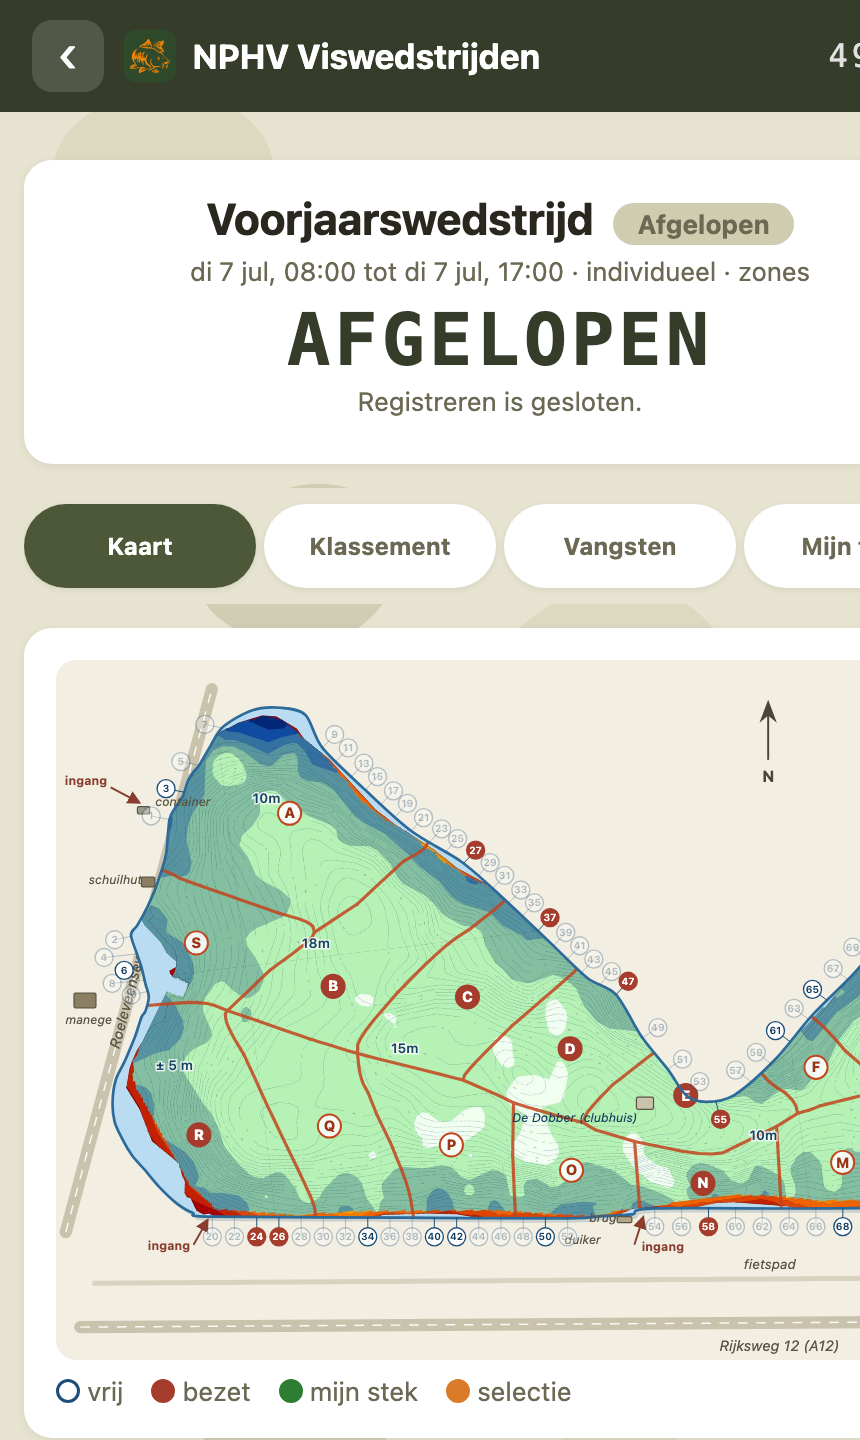
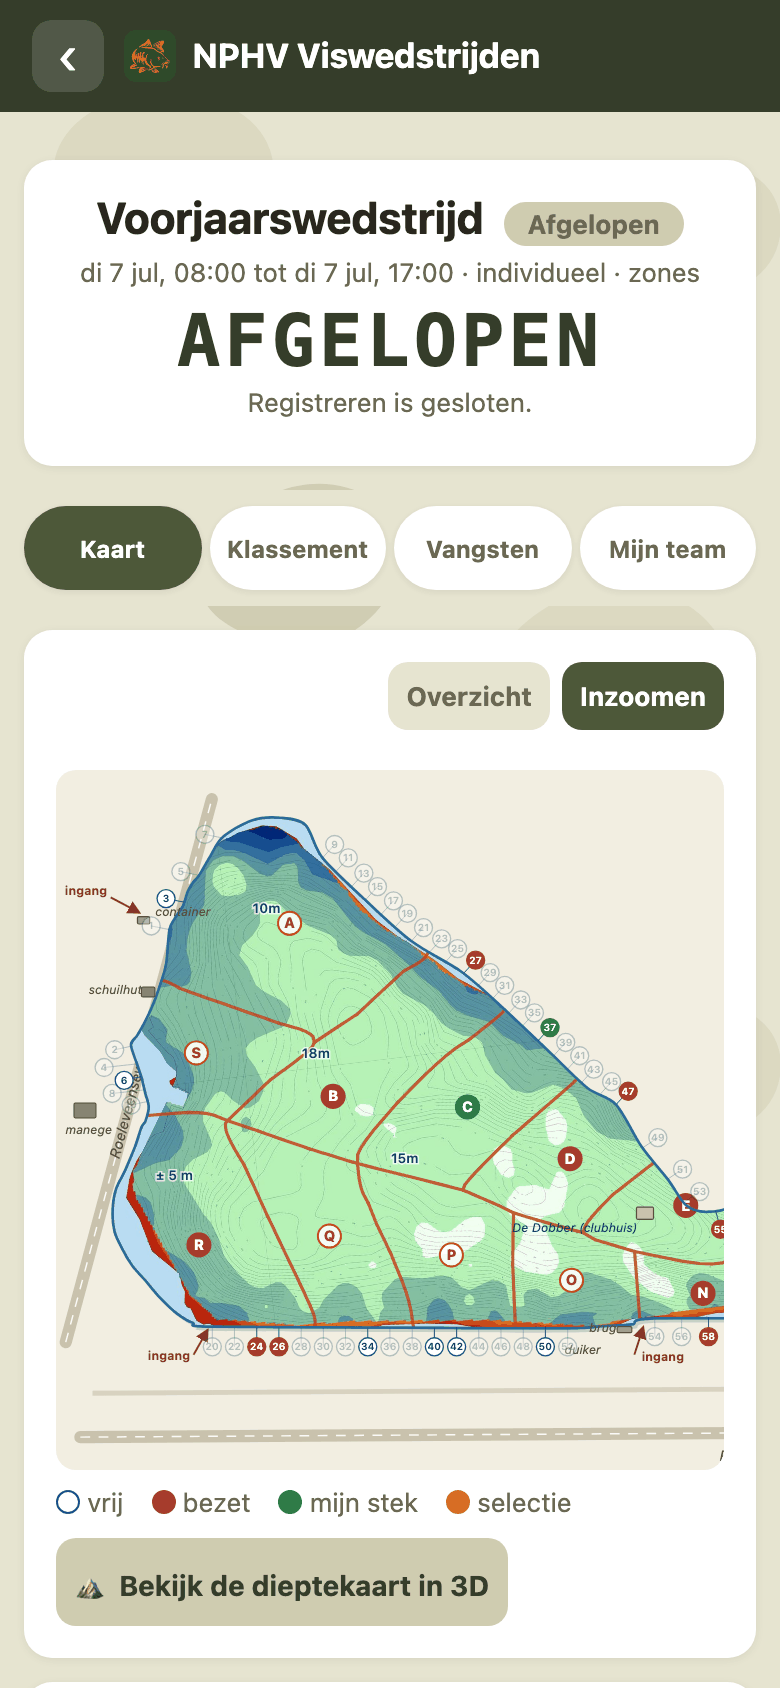
landing: telefoon-mockups in echte telefoonverhouding + fotobucket dicht
De mockups op de landingspagina leken tablets. Twee oorzaken, allebei weg:

- De opnames waren gemaakt met headless Chrome zonder mobiele emulatie.
  Chrome past dan de viewport-meta niet toe en rendert op schermbreedte, dus
  de beelden hadden te grote tekst, een halve tabbalk en afgekapte kolommen,
  in een verhouding van 1:1,67 tot 1:2,00. Nieuwe opnames via CDP met
  mobile:true, 390x844 punten @2x = 780x1688 (1:2,16, iPhone-verhouding);
  het gereedschap staat nu in tools/mobiel_screenshot.mjs.
- Het frame was breed en vlak: nu smaller (232px), grotere hoekstraal en
  zijknoppen links en rechts, zodat het silhouet een telefoon is.

De kaartopname toont voortaan de ingezoomde dieptekaart zonder de
wedstrijdcode in de topbar en zonder de deelnemerslijst; die code geeft
namelijk toegang tot de namen.

Daarnaast is de anon-INSERT-policy op de bucket wedstrijd-fotos ingetrokken
(migratie wedstrijd_fotos_anon_insert_intrekken), ruim drie weken na v64.
Schrijven kan nu alleen nog de edge function upload-vangstfoto na controle
van teamtoken of admin-pin; daarmee is Codex v10 hoog-2 helemaal dicht.
Geverifieerd: directe upload met de publieke sleutel geeft 403 RLS, upload
via de edge function met een geldig teamtoken geeft 200, publiek lezen 200.

diff --git a/docs/index.html b/docs/index.html
@@ -52,18 +52,27 @@
   .duo { display: flex; gap: clamp(20px, 4vw, 44px); align-items: center; flex-wrap: wrap; }
   .duo > .tekstkolom { flex: 1 1 320px; min-width: 0; }
   .duo > .telefoon { margin: 0 auto; }
+  /* Telefoonlijst: de opnames zijn 390x844 punten (1:2,16), dus de verhouding
+     van een echte telefoon. Rand, hoekstraal en zijknoppen zijn op die maat
+     geschaald; met een bredere doos of een vlakkere verhouding leest het
+     silhouet als een tablet. */
   .telefoon {
-    flex: 0 0 auto; width: min(250px, 68vw);
-    border: 9px solid #23281a; border-radius: 34px; background: #23281a;
-    box-shadow: 0 16px 38px rgba(35, 40, 26, .3); overflow: hidden;
+    position: relative; flex: 0 0 auto; width: min(232px, 62vw);
+    border: 8px solid #23281a; border-radius: 38px; background: #23281a;
+    box-shadow: 0 16px 38px rgba(35, 40, 26, .3);
   }
-  .telefoon img { display: block; width: 100%; height: auto; }
+  .telefoon img { display: block; width: 100%; height: auto; border-radius: 30px; }
+  .telefoon::before, .telefoon::after {
+    content: ''; position: absolute; width: 3px; background: #1a1e12;
+  }
+  .telefoon::before { left: -11px; top: 24%; height: 9%; border-radius: 3px 0 0 3px; }
+  .telefoon::after { right: -11px; top: 30%; height: 12%; border-radius: 0 3px 3px 0; }
   .hero-bewijs { margin: 14px 0 0; font-size: 13px; font-weight: 600; color: #d9dcc2; }
   .demo-rollen { margin: 10px 0 0; font-size: 14px; color: #d9dcc2; }
   .demo-rollen a { color: #f0a04b; font-weight: 700; }
   .demo-rollen .muted { color: #b9bda6; }
   @media (max-width: 520px) {
-    .landing-hero .telefoon { width: min(185px, 60vw); }
+    .landing-hero .telefoon { width: min(178px, 58vw); }
   }
   .sectie { padding: clamp(20px, 4vw, 36px); }
   .scan-figuur { margin: 20px 0 0; }
@@ -134,7 +143,7 @@
         </p>
         <p class="hero-bewijs">Geen deelnemersaccounts · geen vangstenlogboek · geen locatie-tracking</p>
       </div>
-      <div class="telefoon"><img src="schermen/scherm-klassement.png" alt="Het live klassement in de app, met de opbouw per gevangen vis" width="860" height="1720"></div>
+      <div class="telefoon"><img src="schermen/scherm-klassement.png" alt="Het live klassement in de app, met de opbouw per gevangen vis" width="780" height="1688"></div>
     </div>
   </section>
 
@@ -160,7 +169,7 @@
         <p class="muted klein">In de telefoon: een echt voorbeeld, de dieptekaart
         van de Plas van der Ende zoals die in de app van de NPHV staat.</p>
       </div>
-      <div class="telefoon"><img src="schermen/scherm-kaart-nphv.png" alt="De dieptekaart van de Plas van der Ende in de app, met zones, dieptelijnen en vrije en bezette stekken" width="860" height="1440" loading="lazy"></div>
+      <div class="telefoon"><img src="schermen/scherm-kaart-nphv.png" alt="De dieptekaart van de Plas van der Ende in de app, met zones, dieptelijnen en vrije en bezette stekken" width="780" height="1688" loading="lazy"></div>
     </div>
     <figure class="scan-figuur">
       <img src="schermen/kaart3d-stekken.jpg" alt="De 3D-dieptescan van de Plas van der Ende met de stekken en zones uit de app eroverheen" width="1540" height="799" loading="lazy">
@@ -215,7 +224,7 @@
         reageert kan met één tik, en vangsten zijn te corrigeren of handmatig in te
         voeren (ook na de eindtijd). Eerdere wedstrijden blijven in het archief staan.</p>
       </div>
-      <div class="telefoon"><img src="schermen/scherm-home.png" alt="Het startscherm: inloggen als deelnemer, kijker of organisator" width="860" height="1720" loading="lazy"></div>
+      <div class="telefoon"><img src="schermen/scherm-home.png" alt="Het startscherm: inloggen als deelnemer, kijker of organisator" width="780" height="1688" loading="lazy"></div>
     </div>
   </section>
 

diff --git a/review/upload-vangstfoto.ts b/review/upload-vangstfoto.ts
@@ -8,6 +8,10 @@
 // admin-pin (organisator) en uploadt pas daarna met de service-role sleutel,
 // naar een pad dat de SERVER kiest.
 //
+// Sinds 11 aug 2026 is dit de ENIGE schrijfroute: de anon-INSERT-policy op de
+// bucket is ingetrokken, er staat geen enkele policy meer op wedstrijd-fotos.
+// Valt deze functie uit, dan kan er dus ook niets meer geüpload worden.
+//
 // Aanroep: POST met headers
 //   x-w-code   wedstrijdcode
 //   x-w-token  teamtoken (deelnemer)   OF   x-w-pin  admin-pin (organisator)

diff --git a/CLAUDE.md b/CLAUDE.md
@@ -58,9 +58,12 @@ wedstrijden organiseren (doelgroep verbreed 11 jul 2026).
   **Upload loopt sinds v64 via de edge function `upload-vangstfoto`**
   (kopie in `review/upload-vangstfoto.ts`): die controleert eerst het teamtoken
   of de admin-pin, kiest zelf het pad en uploadt met de service-role sleutel.
-  Rate-limit 20 uploads per IP per minuut. OPEN: de anon-INSERT-policy op de
-  bucket staat nog aan zodat PWA's met oude code blijven werken; intrekken zodra
-  de client-versie overal is opgehaald (dan pas is hoog-2 helemaal dicht).
+  Rate-limit 20 uploads per IP per minuut. **De anon-INSERT-policy op de bucket
+  is ingetrokken op 11 aug 2026** (migratie `wedstrijd_fotos_anon_insert_intrekken`),
+  ruim drie weken na v64: er staat nu GEEN enkele policy meer op `wedstrijd-fotos`,
+  dus schrijven kan alleen nog de edge function (service-role omzeilt RLS) en
+  lezen loopt via de public-bucket-URL. Een directe upload met de publieke sleutel
+  geeft nu 403 "new row violates row-level security policy". Codex v10 hoog-2 dicht.
 - **API-model:** tabellen hebben RLS aan zonder policies; ALLE toegang loopt via
   security-definer RPC's `w_*` in het public schema. Elke wijziging aan spelregels
   hoort dus in een RPC-migratie, niet in de frontend. Frontend praat via kale
@@ -318,12 +321,18 @@ zie ook feedback_docs_consequent.md in de memory). De lijst:
    was v49 nog info.html): hero "Loot. Vis. Win." met Inloggen-knop,
    eyebrow-secties, telefoon-mockups met demo-screenshots uit
    `docs/schermen/`, privacy-blok, FAQ. Bij zichtbare UI-wijzigingen de
-   screenshots verversen: headless Chrome `--screenshot --window-size=430,860
-   --force-device-scale-factor=2 --virtual-time-budget=9000`
-   (klassement = /demo/#/k/KIJKJE, home = /demo/, kaart = de ECHTE
-   NPHV-dieptekaart via /nphv/#/w/499QWP, testwedstrijd "Voorjaarswedstrijd";
-   die screenshot onderaan bijsnijden tot boven "Loting & volgorde" zodat er
-   GEEN deelnemersnamen op de publieke site komen, huidige crop 860x1440).
+   screenshots verversen met **`tools/mobiel_screenshot.mjs`** (CDP +
+   `mobile: true`, 390x844 @2x = 780x1688, verhouding 1:2,16). NIET met
+   `chrome --headless --screenshot --window-size`: zonder mobiele emulatie
+   negeert Chrome de viewport-meta, rendert het de pagina op schermbreedte en
+   levert het een beeld met te grote tekst, een halve tabbalk en afgekapte
+   kolommen | precies daarom leken de eerste mockups (860x1440, 1:1,67) op
+   tablets. Bronnen: klassement = /demo/#/k/KIJKJE, home = /demo/, kaart = de
+   ECHTE NPHV-dieptekaart via `/nphv/#/w/499QWP?t=<teamtoken uit de DB>`
+   (testwedstrijd "Voorjaarswedstrijd", klik "Kaart" + "Inzoomen"). Op die
+   kaartopname `#topcode` leegmaken (de wedstrijdcode geeft toegang tot de
+   deelnemerslijst) en vanaf scrollTop 0 fotograferen, zodat "Loting & volgorde"
+   met de deelnemersnamen NIET in beeld komt.
    `docs/info.html` is alleen nog een redirect naar /.
 2. `docs/inloggen/index.html` | inlogpagina met de organisatie-keuze
    (nieuwe tenants komen hier als kaart bij; nieuwe_tenant.py doet dat)

diff --git a/review/codex-review-v10-status.md b/review/codex-review-v10-status.md
@@ -89,6 +89,12 @@ gekomen.
   horen bij dezelfde hardening-ronde; upload via een Edge Function met
   teamtoken-controle, rate-limit vóór de database, langere persoonlijke
   codes. Vandaag geen productie-risico bij één klant, wel vóór klant 2.
+  **AFGEROND: v64 (18 jul) bracht de edge function; op 11 aug is ook de
+  anon-INSERT-policy op de bucket ingetrokken** (migratie
+  `wedstrijd_fotos_anon_insert_intrekken`), nadat alle clients ruim drie weken
+  de tijd hadden om v64+ op te halen. Geverifieerd: directe upload met de
+  publieke sleutel geeft 403 RLS, upload via de edge function met een geldig
+  teamtoken geeft 200, publieke leesroute onveranderd 200.
 - **Levenscyclus strakker afdwingen (middel 4, deels)**: het aanmelden na
   de eindtijd is nu dicht. De rest (vangst alleen bij status 'klaar', reset
   alleen vóór de start en zonder vangsten) vraagt een expliciete
